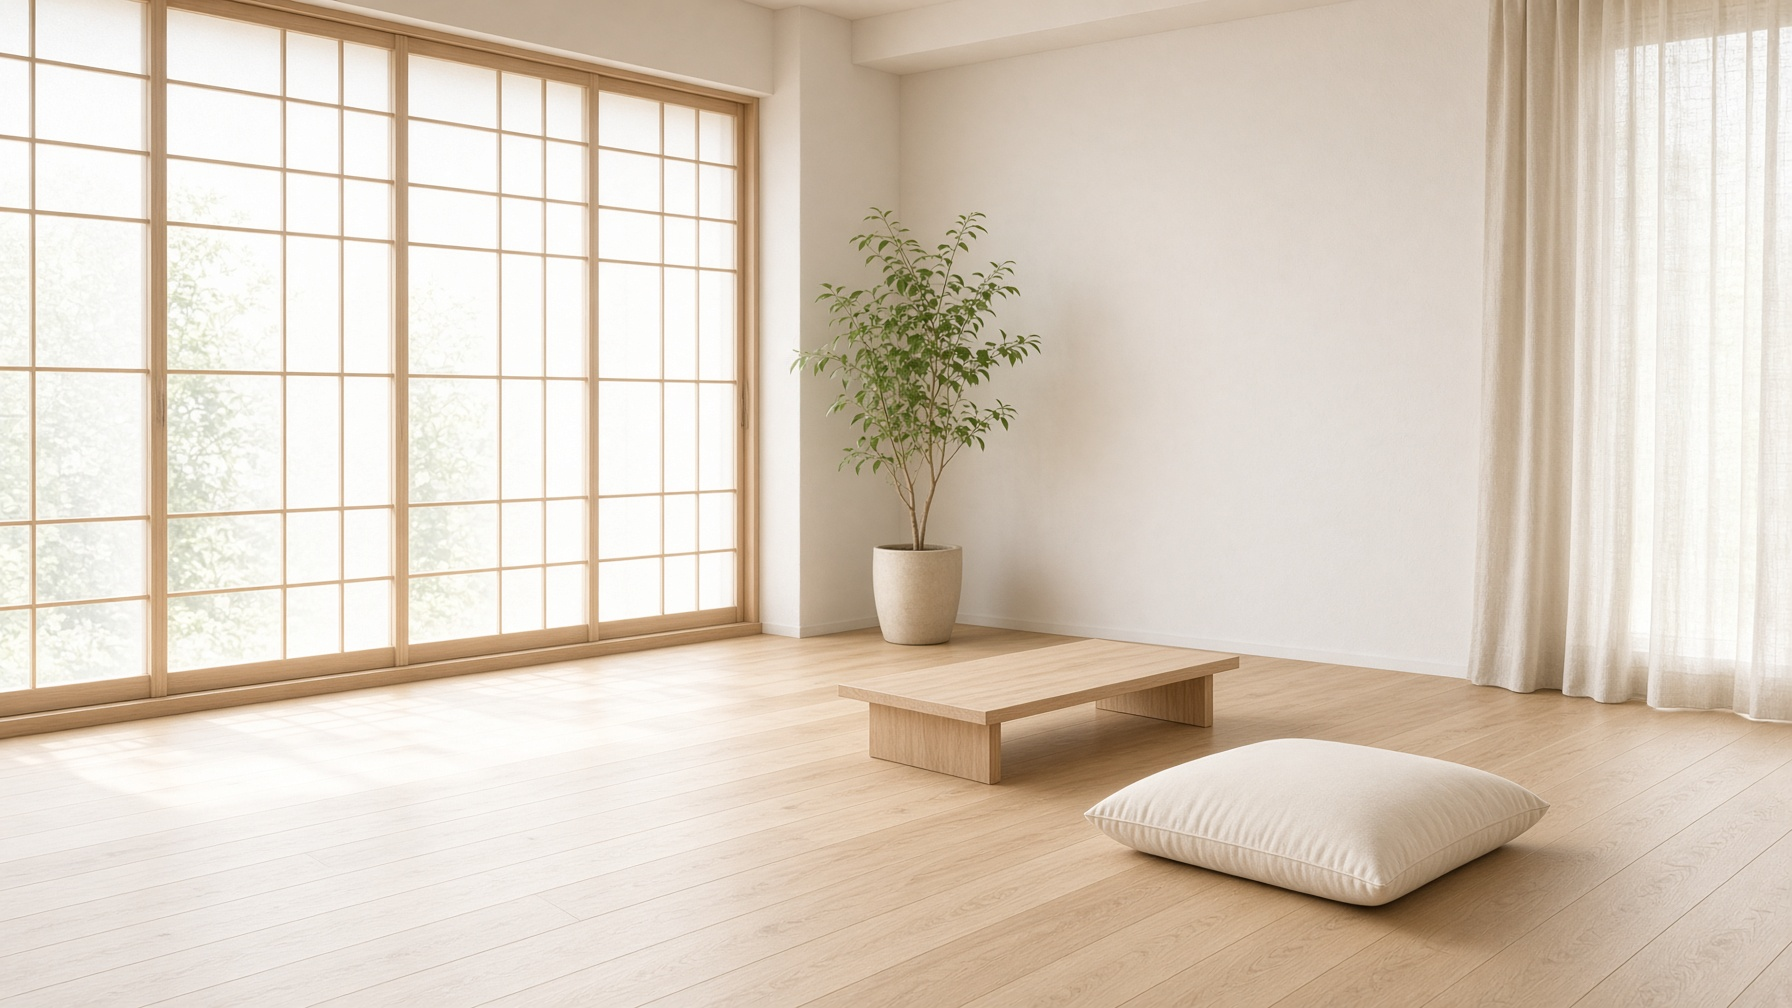
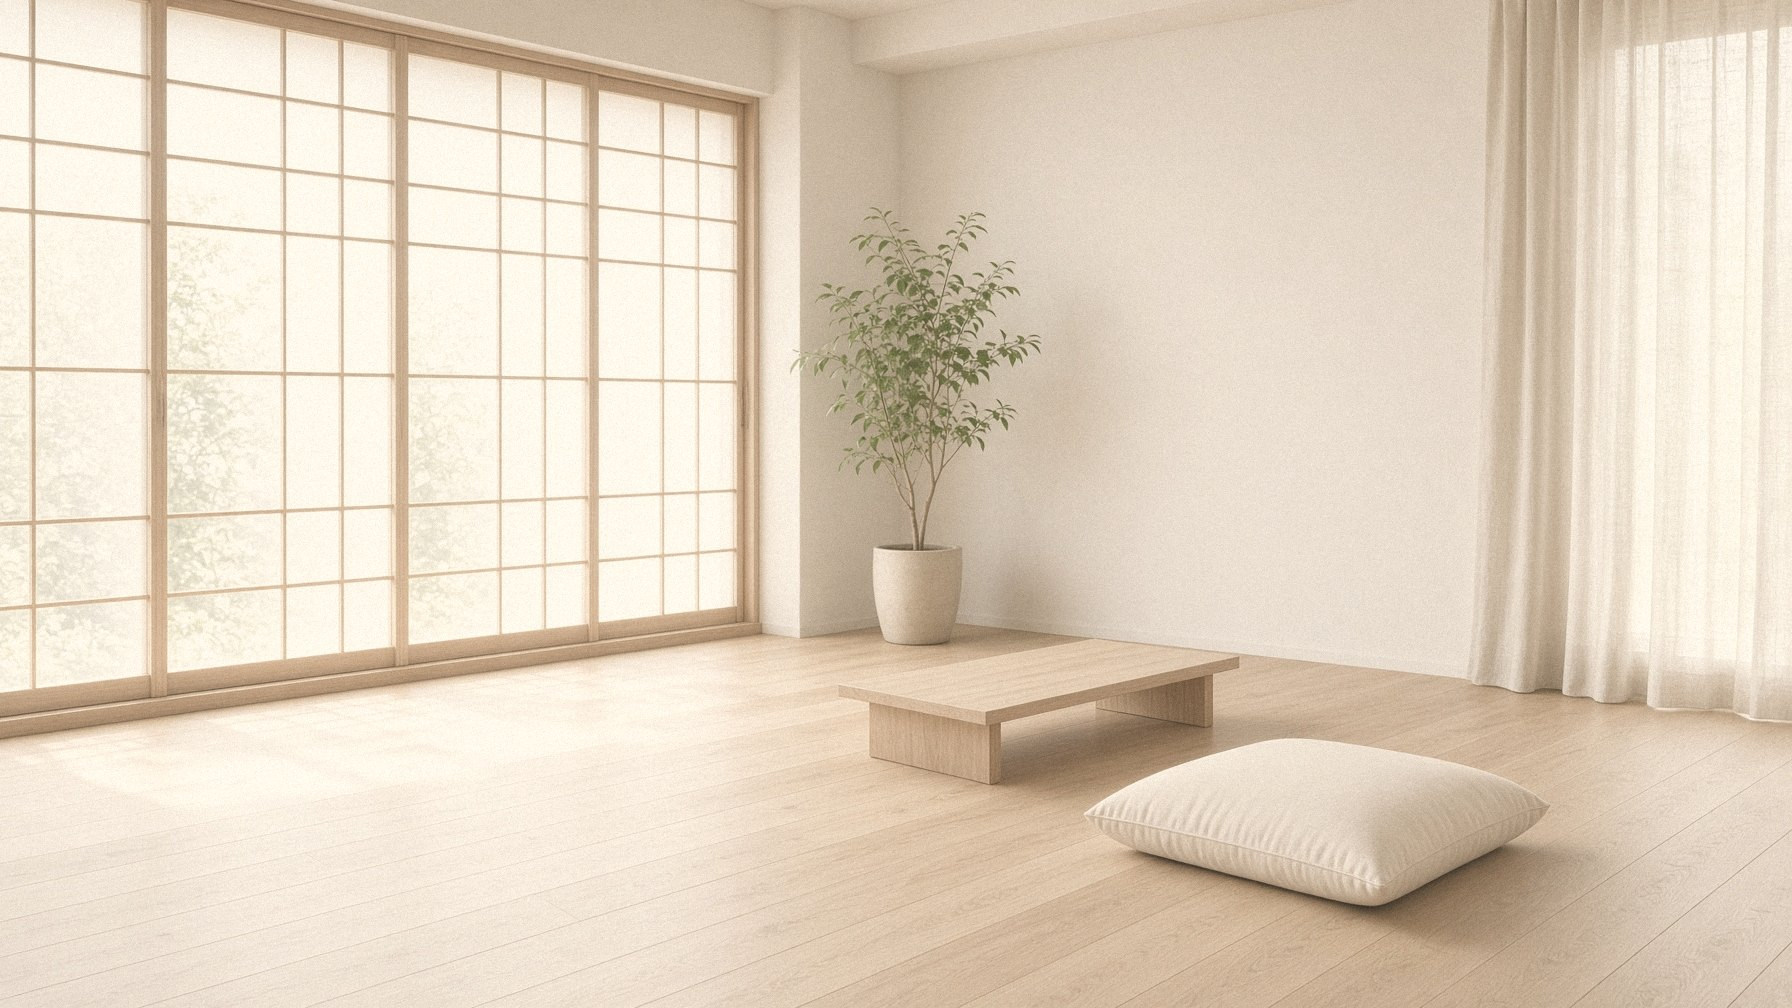
統一色調: 相片調暖加紙紋，首頁大圖底部淡入

diff --git a/src/routes/index.tsx b/src/routes/index.tsx
@@ -24,7 +24,7 @@ function Home() {
     <main className="min-h-screen bg-bg text-ink">
       <header className="relative flex min-h-[70vh] items-end overflow-hidden px-6 pt-20 pb-16 md:items-center md:px-12 md:pt-28">
         <img
-          src="/bg-home.jpg?v=3"
+          src="/bg-home.jpg?v=4"
           alt=""
           className="pointer-events-none absolute inset-0 h-full w-full object-cover object-[center_40%]"
         />
@@ -36,6 +36,7 @@ function Home() {
           className="absolute inset-0 hidden bg-linear-to-r from-bg/60 via-bg/20 to-transparent md:block"
           aria-hidden
         />
+        <div className="absolute inset-x-0 bottom-0 h-1/3 bg-linear-to-b from-transparent to-bg" aria-hidden />
         <div className="relative z-10 mx-auto w-full max-w-3xl">
           <p className="text-xs tracking-[0.32em] text-accent">{home.kicker}</p>
           <h1 className="mt-4 font-serif text-6xl font-semibold md:text-8xl">{ui.site}</h1>
@@ -74,7 +75,7 @@ function Home() {
           to="/anshen"
           className="group overflow-hidden rounded-card border border-line bg-paper no-underline text-ink"
         >
-          <img src="/bg-anshen.jpg?v=3" alt="" className="h-36 w-full object-cover" />
+          <img src="/bg-anshen.jpg?v=4" alt="" className="h-36 w-full object-cover" />
           <div className="p-6">
             <p className="text-xs tracking-[0.22em] text-accent">{home.anshenK}</p>
             <h2 className="mt-2 font-serif text-4xl">{home.anshenT}</h2>
@@ -86,7 +87,7 @@ function Home() {
           to="/jieyu"
           className="group overflow-hidden rounded-card border border-line bg-paper no-underline text-ink"
         >
-          <img src="/bg-jieyu.jpg?v=3" alt="" className="h-36 w-full object-cover" />
+          <img src="/bg-jieyu.jpg?v=4" alt="" className="h-36 w-full object-cover" />
           <div className="p-6">
             <p className="text-xs tracking-[0.22em] text-accent">{home.jieyuK}</p>
             <h2 className="mt-2 font-serif text-4xl">{home.jieyuT}</h2>
@@ -98,7 +99,7 @@ function Home() {
           to="/anmei"
           className="group overflow-hidden rounded-card border border-line bg-paper no-underline text-ink"
         >
-          <img src="/bg-anmei.jpg" alt="" className="h-36 w-full object-cover" />
+          <img src="/bg-anmei.jpg?v=4" alt="" className="h-36 w-full object-cover" />
           <div className="p-6">
             <p className="text-xs tracking-[0.22em] text-accent">{home.anmeiK}</p>
             <h2 className="mt-2 font-serif text-4xl">{home.anmeiT}</h2>

diff --git a/src/routes/anshen.tsx b/src/routes/anshen.tsx
@@ -16,7 +16,7 @@ function AnshenPage() {
       title={c.title}
       kicker={c.kicker}
       lede={c.lede}
-      bgSrc="/bg-anshen.jpg?v=3"
+      bgSrc="/bg-anshen.jpg?v=4"
       nav={c.nav}
       footerName={c.footerName}
       footerNote={c.footerNote}
@@ -24,7 +24,7 @@ function AnshenPage() {
       <Section id="view" kicker={c.viewK} title={c.viewT}>
         <p>{c.viewP1}</p>
         <p className="mt-3 text-muted">{c.viewP2}</p>
-        <QuietPhoto src="/still-anshen.jpg" alt={c.photo} />
+        <QuietPhoto src="/still-anshen.jpg?v=4" alt={c.photo} />
       </Section>
 
       <Section id="types" kicker={c.typesK} title={c.typesT}>

diff --git a/src/routes/jieyu.tsx b/src/routes/jieyu.tsx
@@ -16,7 +16,7 @@ function JieyuPage() {
       title={c.title}
       kicker={c.kicker}
       lede={c.lede}
-      bgSrc="/bg-jieyu.jpg?v=3"
+      bgSrc="/bg-jieyu.jpg?v=4"
       nav={c.nav}
       footerName={c.footerName}
       footerNote={c.footerNote}
@@ -24,7 +24,7 @@ function JieyuPage() {
       <Section id="view" kicker={c.viewK} title={c.viewT}>
         <p>{c.viewP1}</p>
         <p className="mt-3 text-muted">{c.viewP2}</p>
-        <QuietPhoto src="/still-jieyu.jpg" alt={c.photo} />
+        <QuietPhoto src="/still-jieyu.jpg?v=4" alt={c.photo} />
       </Section>
 
       <Section id="types" kicker={c.typesK} title={c.typesT}>

diff --git a/src/routes/anmei.tsx b/src/routes/anmei.tsx
@@ -19,7 +19,7 @@ function AnmeiPage() {
       title={c.title}
       kicker={c.kicker}
       lede={c.lede}
-      bgSrc="/bg-anmei.jpg"
+      bgSrc="/bg-anmei.jpg?v=4"
       nav={c.nav}
       footerName={c.footerName}
       footerNote={c.footerNote}
@@ -27,7 +27,7 @@ function AnmeiPage() {
       <Section id="view" kicker={c.viewK} title={c.viewT}>
         <p>{c.viewP1}</p>
         <p className="mt-3 text-muted">{c.viewP2}</p>
-        <QuietPhoto src="/still-anmei.jpg" alt={c.photo} />
+        <QuietPhoto src="/still-anmei.jpg?v=4" alt={c.photo} />
         <CardGrid items={c.soils} />
       </Section>
 
